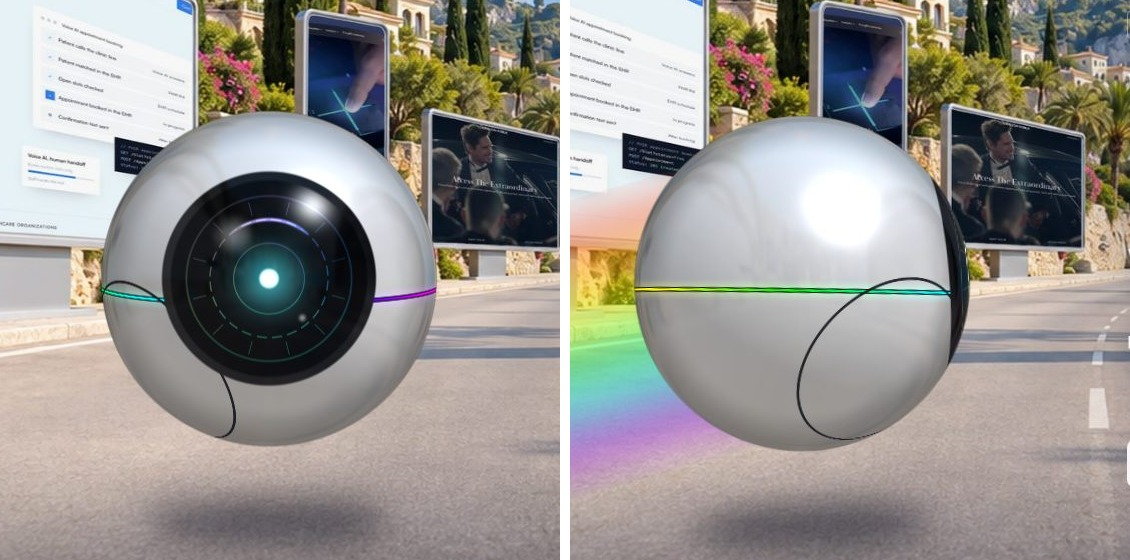
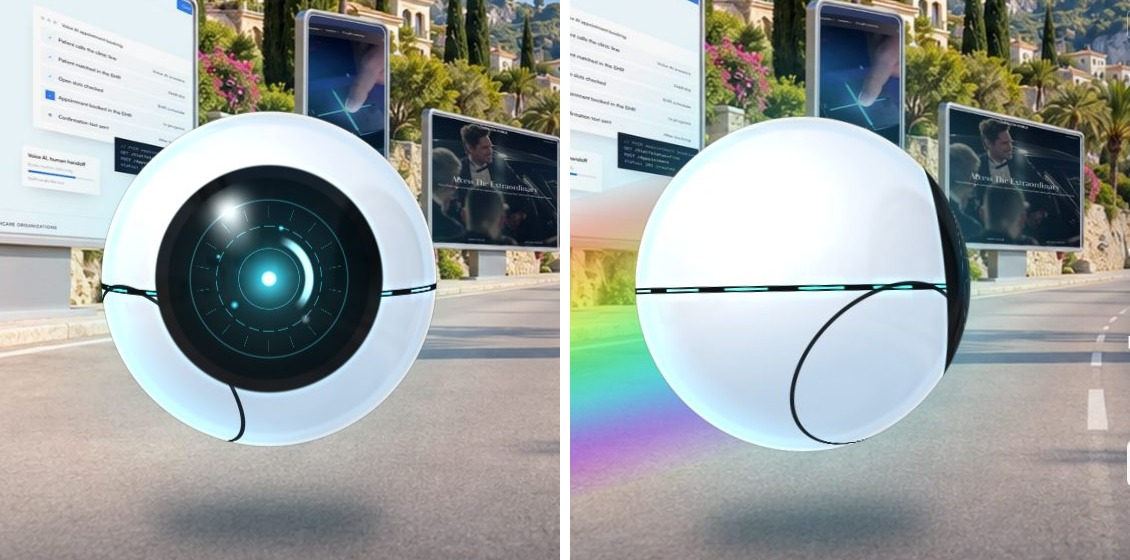
Hero prototype: the character's glow follows the owner's reference (white ceramic, cyan light in the seam, glass eye)
Claude-Session: https://claude.ai/code/session_011BdSE2fEeiEv9ZgoYmWAPn

diff --git a/design/hero/orb-proto/index.html b/design/hero/orb-proto/index.html
@@ -41,6 +41,8 @@
   .orb { position: absolute; z-index: 4; left: 27%; top: 56%; width: clamp(150px, 25vw, 400px); aspect-ratio: 1; transform: translate(-50%, -50%); will-change: transform; }
   .orb canvas { position: absolute; inset: 0; width: 100%; height: 100%; display: block; }
   .ground { position: absolute; left: 16%; right: 16%; bottom: -24%; height: 13%; border-radius: 50%; background: rgb(10 14 30 / 0.5); filter: blur(16px); }
+  .aura { position: absolute; inset: -22%; border-radius: 50%; background: radial-gradient(circle, rgb(70 225 255 / 0.34) 30%, rgb(70 225 255 / 0.12) 52%, rgb(70 225 255 / 0) 70%); will-change: opacity, transform; }
+  .ground { background: rgb(6 40 58 / 0.5); }
   .trail { position: absolute; z-index: 3; left: 27%; top: 56%; width: 80vw; height: clamp(120px, 20vw, 330px); transform-origin: 100% 50%; transform: translate(-100%, -50%) rotate(-16deg); opacity: 0; pointer-events: none; filter: blur(14px);
     background: linear-gradient(180deg, rgb(255 60 60 / 0), #ff5a3c 12%, #ffb400 26%, #d8fa01 40%, #01f14c 54%, #00ecfd 68%, #9b1cf0 84%, rgb(155 28 240 / 0));
     -webkit-mask-image: linear-gradient(90deg, transparent, #000 55%, #000 92%, transparent); mask-image: linear-gradient(90deg, transparent, #000 55%, #000 92%, transparent); }
@@ -76,7 +78,7 @@
     </div>
 
     <div class="trail" id="trail"></div>
-    <div class="orb" id="orb" aria-hidden="true"><div class="ground"></div><canvas id="ball" width="640" height="640"></canvas></div>
+    <div class="orb" id="orb" aria-hidden="true"><div class="ground"></div><div class="aura" id="aura"></div><canvas id="ball" width="640" height="640"></canvas></div>
 
     <div class="words">
       <p class="pill">AI-first design and digital company</p>
@@ -98,7 +100,7 @@
 
 <script>
 (function () {
-  var canvas = document.getElementById("ball"), orb = document.getElementById("orb"), trail = document.getElementById("trail"),
+  var canvas = document.getElementById("ball"), orb = document.getElementById("orb"), aura = document.getElementById("aura"), trail = document.getElementById("trail"),
       world = document.getElementById("world"), rays = document.getElementById("rays");
   var still = window.matchMedia("(prefers-reduced-motion: reduce)").matches;
   var gl = canvas.getContext("webgl", { premultipliedAlpha: false, antialias: true });
@@ -117,33 +119,50 @@
     "  float c=dot(n,d), ang=acos(clamp(c,-1.,1.));",
     "  vec3 refl=reflect(vec3(0.,0.,-1.),n);",
     "  vec3 env=texture2D(uEnv, vec2(.5+refl.x*.42, .5-refl.y*.42)).rgb;",
-    "  vec3 L=normalize(vec3(.45,.75,.5)); float dif=.62+.38*max(0.,dot(n,L));",
-    "  float fres=pow(1.-n.z,2.4); float E=.62;",                                   // E: the eye's size on the shell
-    "  vec3 shell=vec3(.955,.96,.975)*dif+vec3(.0,.02,.05)*n.y; shell=mix(shell, env*1.1, .05+.4*fres);",
-    "  vec3 H=normalize(L+vec3(0.,0.,1.)); shell+=vec3(1.)*pow(max(0.,dot(n,H)),70.)*.75;",
-    "  shell*=mix(1.,.72,smoothstep(.75,1.,r));",                                   // darker toward the edge
-    "  vec3 m=normalize(up+d*.10); float s=dot(n,m)+.05;",                            // the seam around the body
-    "  float lon=atan(dot(n,rt),dot(n,d));",
-    "  vec3 band=hue(lon/6.2832+.62);",                                             // our logo's colours run along it
-    "  shell+=band*smoothstep(.07,.0,abs(s))*.16;",                                 // a soft glow beside the strip
-    "  shell=mix(shell, vec3(.07,.08,.1), smoothstep(.017,.011,abs(s)));",           // the groove
-    "  shell=mix(shell, band*1.25, smoothstep(.009,.004,abs(s)));",                  // the thin lit strip inside it
-    "  vec3 ax=normalize(rt*-.72+up*-.58+d*.38); float pl=abs(acos(clamp(dot(n,ax),-1.,1.))-.60);",
-    "  shell=mix(shell, vec3(.07,.08,.1), smoothstep(.011,.005,pl)*.9);",            // one curved panel line, lower left
+    "  vec3 L=normalize(vec3(-.42,.72,.55)); float lam=max(0.,dot(n,L));",
+    "  float fres=pow(1.-n.z,2.4); float E=.64;",                                   // E: the eye's size on the shell
+    "  vec3 GL=vec3(.25,.9,1.);",                                                   // the glow: a clear cyan
+    // a bright ceramic body: soft light, cool shade underneath, a faint reflection of the place it is in
+    "  vec3 shell=mix(vec3(.70,.80,.90), vec3(.985,.99,1.), .42+.58*lam);",
+    "  shell=mix(shell, vec3(.62,.76,.88), smoothstep(.1,-.9,n.y)*.45);",
+    "  shell=mix(shell, env*1.05, .03+.26*fres);",
+    "  vec3 H=normalize(L+vec3(0.,0.,1.)); float sp=max(0.,dot(n,H));",
+    "  shell+=vec3(1.)*(pow(sp,10.)*.16+pow(sp,90.)*.7);",                           // a wide soft sheen and a sharp glint
+    // a clear outer coat: a bright rim with a thin inner edge, as if the body sits inside glass
+    "  shell=mix(shell, vec3(.80,.90,.97), smoothstep(.90,.93,r)*smoothstep(.975,.95,r)*.55);",
+    "  shell=mix(shell, vec3(1.), smoothstep(.955,.985,r)*.5);",
+    "  shell+=GL*smoothstep(.72,1.,r)*smoothstep(.25,-.6,n.x+n.y*.2)*.16;",          // cyan light catching the left edge
+    // the seam round the middle: a dark gap with light inside it
+    "  vec3 m=normalize(up+d*.08); float s=dot(n,m)+.03; float lon=atan(dot(n,rt),dot(n,d));",
+    "  vec3 lit=mix(GL, hue(lon/6.2832+.62), .28);",                                 // mostly cyan, shading gently through our logo's colours
+    "  float dash=smoothstep(.30,.36,fract(lon*2.2+uTime*.04))*smoothstep(.95,.89,fract(lon*2.2+uTime*.04));",
+    "  shell+=lit*smoothstep(.085,.0,abs(s))*.20*(.4+.6*dash);",                     // the glow that spills out of the gap
+    "  shell=mix(shell, vec3(.05,.07,.09), smoothstep(.021,.014,abs(s)));",          // the gap
+    "  shell=mix(shell, lit*1.5+.15, smoothstep(.010,.004,abs(s))*dash);",            // the lit segments inside
+    // one sweeping panel line low on the body, and a faint glowing meridian on the far side
+    "  vec3 ax=normalize(rt*-.70+up*-.62+d*.36); float pl=abs(acos(clamp(dot(n,ax),-1.,1.))-.62);",
+    "  shell=mix(shell, vec3(.05,.07,.09), smoothstep(.017,.008,pl)*.92);",
+    "  float mer=abs(dot(n,normalize(rt*.86+d*.5)));",
+    "  shell+=GL*(smoothstep(.05,.0,mer)*.12+smoothstep(.008,.0,mer)*.5)*smoothstep(-.1,.3,-dot(n,d));",
     "  vec3 col=shell;",
-    "  col=mix(col, vec3(.05,.055,.07)+env*.12, smoothstep(E+.075,E+.055,ang));",   // dark rim around the eye
-    "  vec3 glass=vec3(.012,.016,.03)+env*(.07+.32*fres);",
-    "  vec2 e=vec2(dot(n,rt),dot(n,up))/sin(E); float ed=length(e), az=atan(e.y,e.x);",   // inside the eye: 0 centre, 1 edge
-    "  vec3 tint=mix(vec3(.25,.95,1.), hue(az/6.2832+.55+uTime*.02), .45);",        // lens light: cyan, shading through the logo's colours
-    "  glass+=tint*smoothstep(.018,.0,abs(ed-.84))*.22;",                            // outer ring
-    "  glass+=tint*smoothstep(.014,.0,abs(ed-.60))*step(.35,fract(az*3.82+uTime*.05))*.38;",   // dashed ring
-    "  glass+=tint*smoothstep(.03,.0,abs(ed-.60))*smoothstep(.72,1.,cos(az-uTime*.5))*1.1;",   // a bright arc that travels round
-    "  glass+=tint*smoothstep(.012,.0,abs(ed-.36))*.3;",                             // inner ring
-    "  glass+=tint*smoothstep(.02,.0,abs(fract(az*1.91)-.5)*ed)*step(.66,ed)*step(ed,.80)*.25;",   // tick marks
-    "  vec2 q=e-uLook; float qd=length(q); float S=.105+uOpen*.02+.008*sin(uTime*1.6);",   // the pupil follows the pointer
-    "  glass+=vec3(.3,.95,1.)*exp(-pow(qd/(S*2.6),2.))*.55+vec3(1.)*smoothstep(S,S*.55,qd);",
-    "  glass+=vec3(1.)*(smoothstep(.26,.0,length(e-vec2(-.36,.44)))*.38+smoothstep(.06,.0,length(e-vec2(.34,-.4)))*.45);",   // two glints
-    "  glass+=vec3(1.)*pow(max(0.,dot(n,H)),160.)*.9;",
+    "  col=mix(col, vec3(.035,.05,.065)+env*.10, smoothstep(E+.11,E+.085,ang));",    // a thick dark rim round the eye
+    "  col+=GL*smoothstep(E+.16,E+.10,ang)*smoothstep(E+.085,E+.11,ang)*.10;",       // a breath of cyan on the body beside it
+    // the eye: a dark glass dome with instrument light deep inside
+    "  vec3 glass=vec3(.008,.035,.05)+env*(.05+.30*fres);",
+    "  vec2 e=vec2(dot(n,rt),dot(n,up))/sin(E); float ed=length(e);",               // inside the eye: 0 centre, 1 edge
+    "  vec2 c2=e-uLook*.9; float cd=length(c2), ca=atan(c2.y,c2.x);",               // the instrument turns toward what it looks at
+    "  glass+=GL*exp(-pow(cd/.62,2.))*.20;",                                         // a soft pool of light
+    "  glass+=GL*smoothstep(.014,.0,abs(cd-.78))*.30;",
+    "  glass+=GL*smoothstep(.010,.0,abs(cd-.52))*step(.3,fract(ca*3.5+uTime*.06))*.45;",
+    "  glass+=GL*smoothstep(.008,.0,abs(cd-.30))*.4;",
+    "  glass+=GL*smoothstep(.016,.0,abs(fract(ca*2.86)-.5)*cd)*step(.60,cd)*step(cd,.72)*.35;",   // ticks
+    "  float arc=smoothstep(.055,.02,abs(cd-.40))*smoothstep(.45,.95,cos(ca+.25-sin(uTime*.5)*.5));",
+    "  glass+=mix(GL,vec3(1.),.55)*arc*1.25;",                                       // the bright crescent
+    "  glass+=GL*(smoothstep(.05,.0,length(c2-vec2(-.34,-.26)))+smoothstep(.035,.0,length(c2-vec2(.12,.5)))+smoothstep(.03,.0,length(c2-vec2(-.5,.22))))*.9;",   // small lights
+    "  float S=.07+uOpen*.02+.006*sin(uTime*1.6);",
+    "  glass+=GL*exp(-pow(cd/(S*2.4),2.))*.7+vec3(1.)*smoothstep(S,S*.5,cd);",       // the pupil
+    "  glass+=vec3(1.)*(smoothstep(.30,.0,length(e-vec2(-.34,.46)))*.34+smoothstep(.06,.0,length(e-vec2(.36,-.4)))*.4);",   // reflections on the dome
+    "  glass+=vec3(1.)*pow(sp,160.)*.9;",
     "  float lid=smoothstep(0.,.03, abs(dot(n,up))-(1.-uBlink)*sin(E)*1.02);",      // the lids, for a blink
     "  glass=mix(glass, shell*.93, lid);",
     "  col=mix(col, glass, smoothstep(E+.012,E-.012,ang));",
@@ -194,6 +213,7 @@
     var bob = still ? 0 : Math.sin(t * 1.7) * 6, lean = v * 10;
     orb.style.transform = "translate(-50%,-50%) translate(" + (lean * 0.6).toFixed(1) + "px," + (bob - lean * 0.3).toFixed(1) + "px) rotate(" + (v * -4).toFixed(2) + "deg)";
     trail.style.opacity = (v * 0.9).toFixed(3);
+    aura.style.opacity = (0.75 + 0.25 * Math.sin(t * 1.3) + v * 0.4).toFixed(3); aura.style.transform = "scale(" + (1 + v * 0.12).toFixed(3) + ")";
     world.style.transform = "scale(" + (1 + v * 0.07).toFixed(4) + ")";
     rays.style.opacity = (v * 0.4).toFixed(3); rays.style.transform = "scale(" + (1 + ((t * 1.4) % 1) * 0.25).toFixed(3) + ")";
     if (ready) {

diff --git a/LAUNCH-CHECKLIST.md b/LAUNCH-CHECKLIST.md
@@ -42,7 +42,7 @@ Tick items as they are done.
 - [ ] Backup plan, only after the owner confirms: keep the earlier big heading that fills the first screen and put moving work behind it. Two rows of our work tiles (images and short silent loops, mixed widths, one height) drift slowly sideways on the dark band, as on the reference the owner shared (Envato's AI video page). Use our own work and our own layout, not theirs. No image or video credits needed.
 - [ ] Also tried, waiting for the owner's pick: a ribbon of our work cards that lands on a tilted board on scroll (working prototype in `design/hero/cards-proto`, no credits needed), and our own character running through the studio rooms, each room one service (`design/hero/character-lineup.png`, `character-hero-mock.jpg`; needs video credits).
 - [ ] Latest direction from the owner (17 Nov): outdoors only, no studio. A floating sphere character with one glass eye flies through five outdoor worlds, one per service (`design/hero/orb-character-sheet.png`, `orb-hero-mock.jpg`, `worlds-all.jpg`). The worlds were drawn with an earlier octopus stand-in and need redrawing with the sphere. Needs video credits.
-- [ ] Owner's notes on that direction (17 Nov): the character looks ahead at the location while the page scrolls and turns to face the visitor when scrolling stops (working prototype in `design/hero/orb-proto`, the sphere is drawn live in the browser); no logo on the character: its eye is a dark glass lens, and the logo's colours run in one thin strip round its body; no designs on roadside screens, each location shows a service as it appears in real life (`scene-brand-cyclist.png`, `scene-booth.png`).
+- [ ] Owner's notes on that direction (17 Nov): the character looks ahead at the location while the page scrolls and turns to face the visitor when scrolling stops (working prototype in `design/hero/orb-proto`, the sphere is drawn live in the browser); no logo on the character: a white ceramic sphere with a dark glass eye and a cyan glow in its seam, after the owner's reference picture; no designs on roadside screens, each location shows a service as it appears in real life (`scene-brand-cyclist.png`, `scene-booth.png`).
 - Home today shows the trial picture of the glass studio (day in the light theme, night in the dark theme).
 
 ## Already done (4 November 2026)
